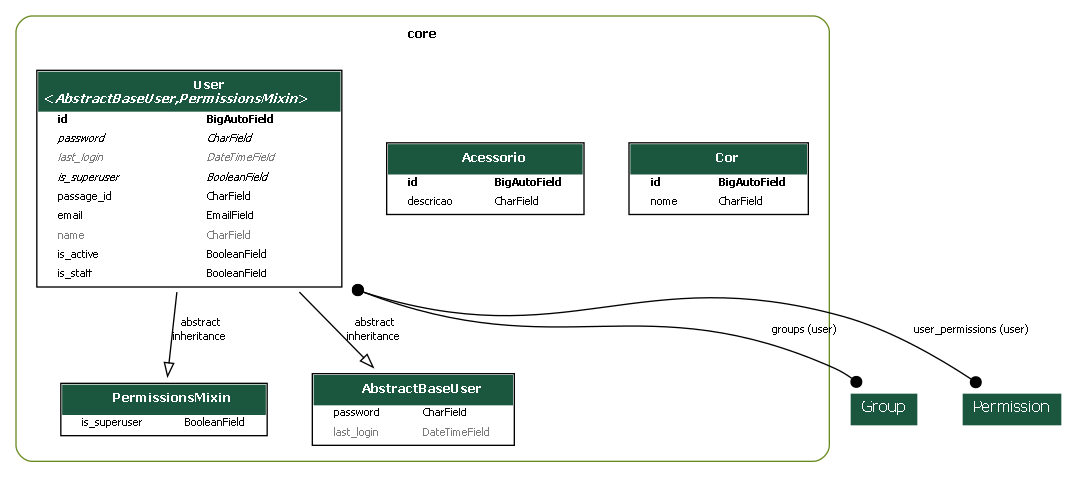
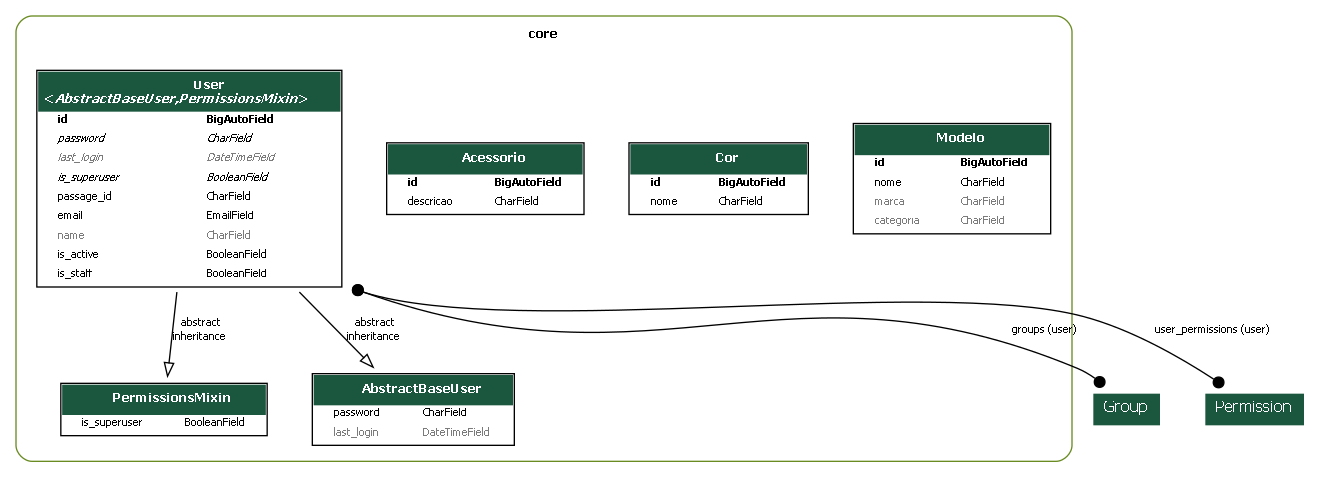
feat: criação da api para modelos

diff --git a/core/migrations/0007_modelo.py b/core/migrations/0007_modelo.py
@@ -1,0 +1,22 @@
+# Generated by Django 5.1.7 on 2025-04-23 16:59
+
+from django.db import migrations, models
+
+
+class Migration(migrations.Migration):
+
+    dependencies = [
+        ('core', '0006_cor'),
+    ]
+
+    operations = [
+        migrations.CreateModel(
+            name='Modelo',
+            fields=[
+                ('id', models.BigAutoField(auto_created=True, primary_key=True, serialize=False, verbose_name='ID')),
+                ('nome', models.CharField(max_length=80)),
+                ('marca', models.CharField(blank=True, max_length=80, null=True)),
+                ('categoria', models.CharField(blank=True, max_length=80, null=True)),
+            ],
+        ),
+    ]

diff --git a/app/urls.py b/app/urls.py
@@ -7,13 +7,14 @@ from drf_spectacular.views import (
 )
 from rest_framework.routers import DefaultRouter
 
-from core.views import UserViewSet, AcessorioViewSet, CorViewSet
+from core.views import UserViewSet, AcessorioViewSet, CorViewSet, ModelViewSet
 
 router = DefaultRouter()
 
 router.register(r'usuarios', UserViewSet, basename='usuarios')
 router.register(r'acessorios', AcessorioViewSet, basename='acessorios')
 router.register(r'cores', CorViewSet, basename='cores')
+router.register(r'modelos', ModelViewSet, basename= 'modelos')
 
 urlpatterns = [
     path('admin/', admin.site.urls),

diff --git a/core/models/modelo.py b/core/models/modelo.py
@@ -1,0 +1,10 @@
+from django.db import models
+
+
+class Modelo(models.Model):
+    nome = models.CharField(max_length=80)
+    marca = models.CharField(max_length=80, null=True, blank=True)
+    categoria = models.CharField(max_length=80, null=True, blank=True)
+
+    def __str__(self):
+        return f'{self.nome.upper()} {self.id} {self.marca}'

diff --git a/core/views/modelo.py b/core/views/modelo.py
@@ -1,0 +1,9 @@
+from rest_framework.viewsets import ModelViewSet
+
+from core.models import Modelo
+from core.serializers import ModeloSerializer
+
+
+class ModeloViewSet(ModelViewSet):
+    queryset = Modelo.objects.all()
+    serializer_class = ModeloSerializer

diff --git a/core/serializers/modelo.py b/core/serializers/modelo.py
@@ -1,0 +1,9 @@
+from rest_framework.serializers import ModelSerializer
+
+from core.models import Modelo
+
+
+class ModeloSerializer(ModelSerializer):
+    class Meta:
+        model = Modelo
+        fields = '__all__'

diff --git a/core/serializers/__init__.py b/core/serializers/__init__.py
@@ -1,3 +1,4 @@
 from .user import UserSerializer
 from .acessorio import AcessorioSerializer
 from .cor import CorSerializer
+from .modelo import ModeloSerializer

diff --git a/core/views/__init__.py b/core/views/__init__.py
@@ -1,3 +1,4 @@
 from .user import UserViewSet
 from .acessorio import AcessorioViewSet
 from .cor import CorViewSet
+from .modelo import ModelViewSet

diff --git a/core/models/__init__.py b/core/models/__init__.py
@@ -1,3 +1,4 @@
 from .user import User
 from .acessorio import Acessorio
 from .cor import Cor
+from .modelo import Modelo
